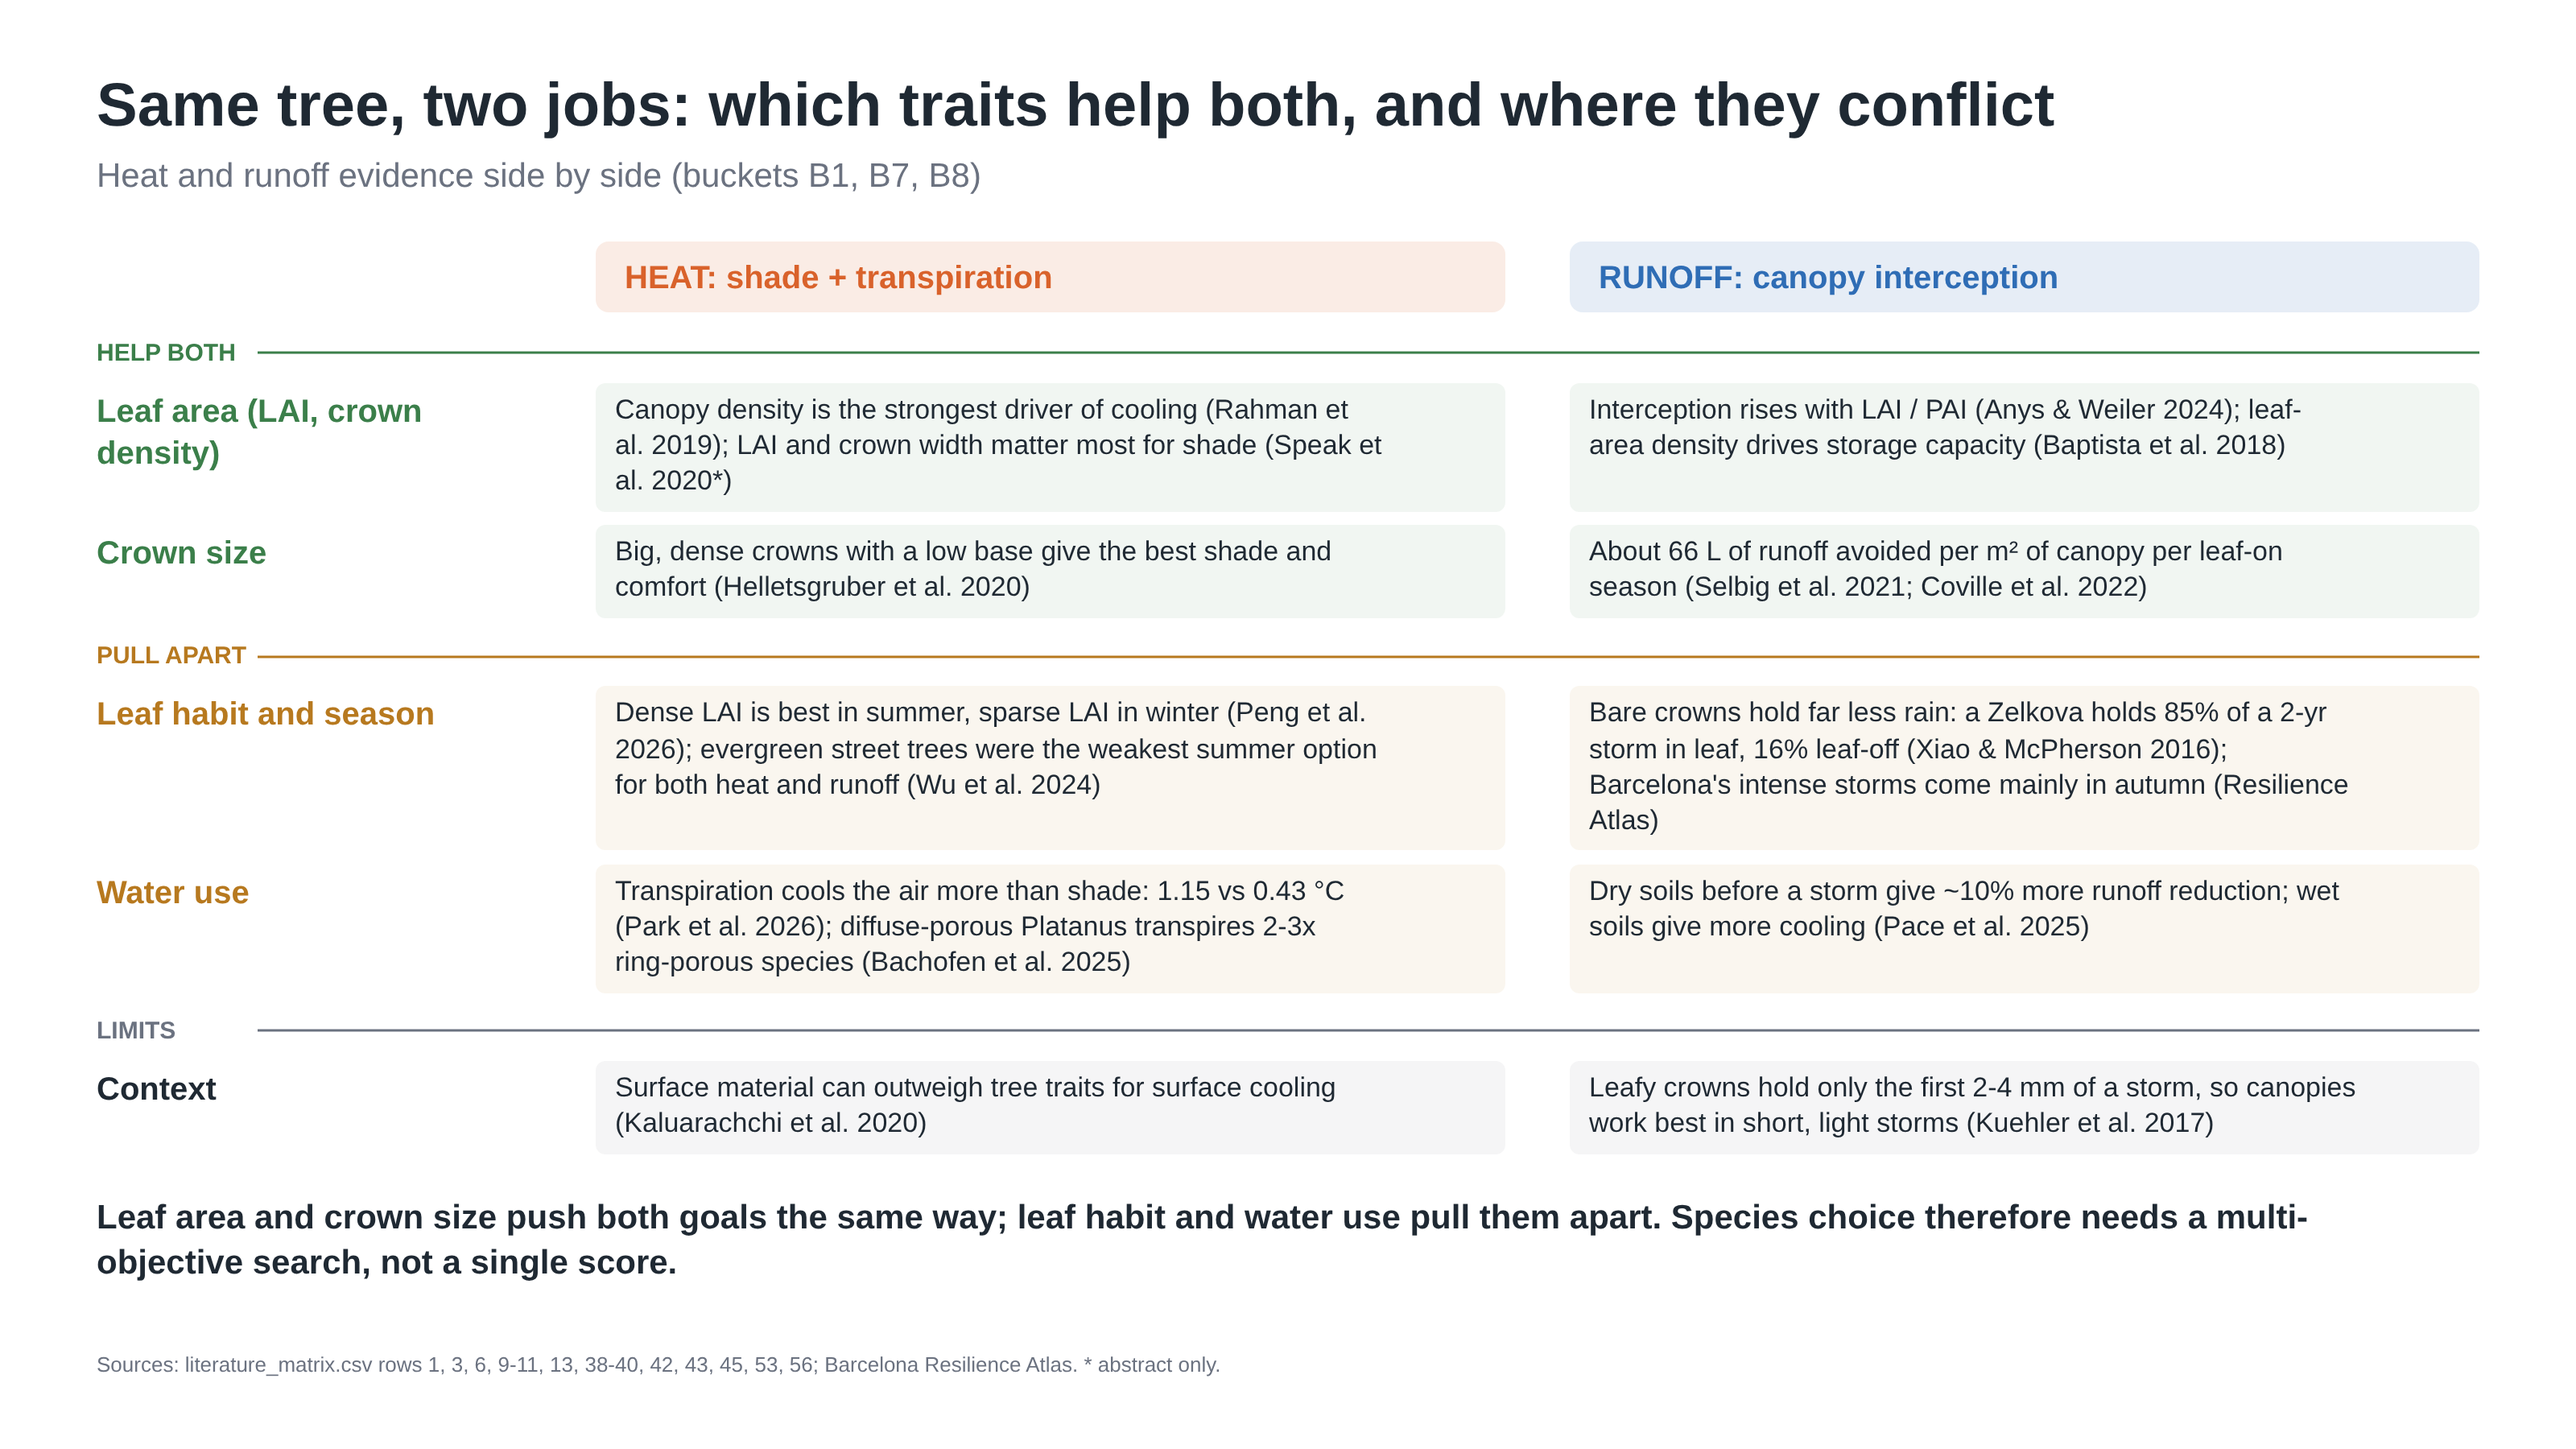
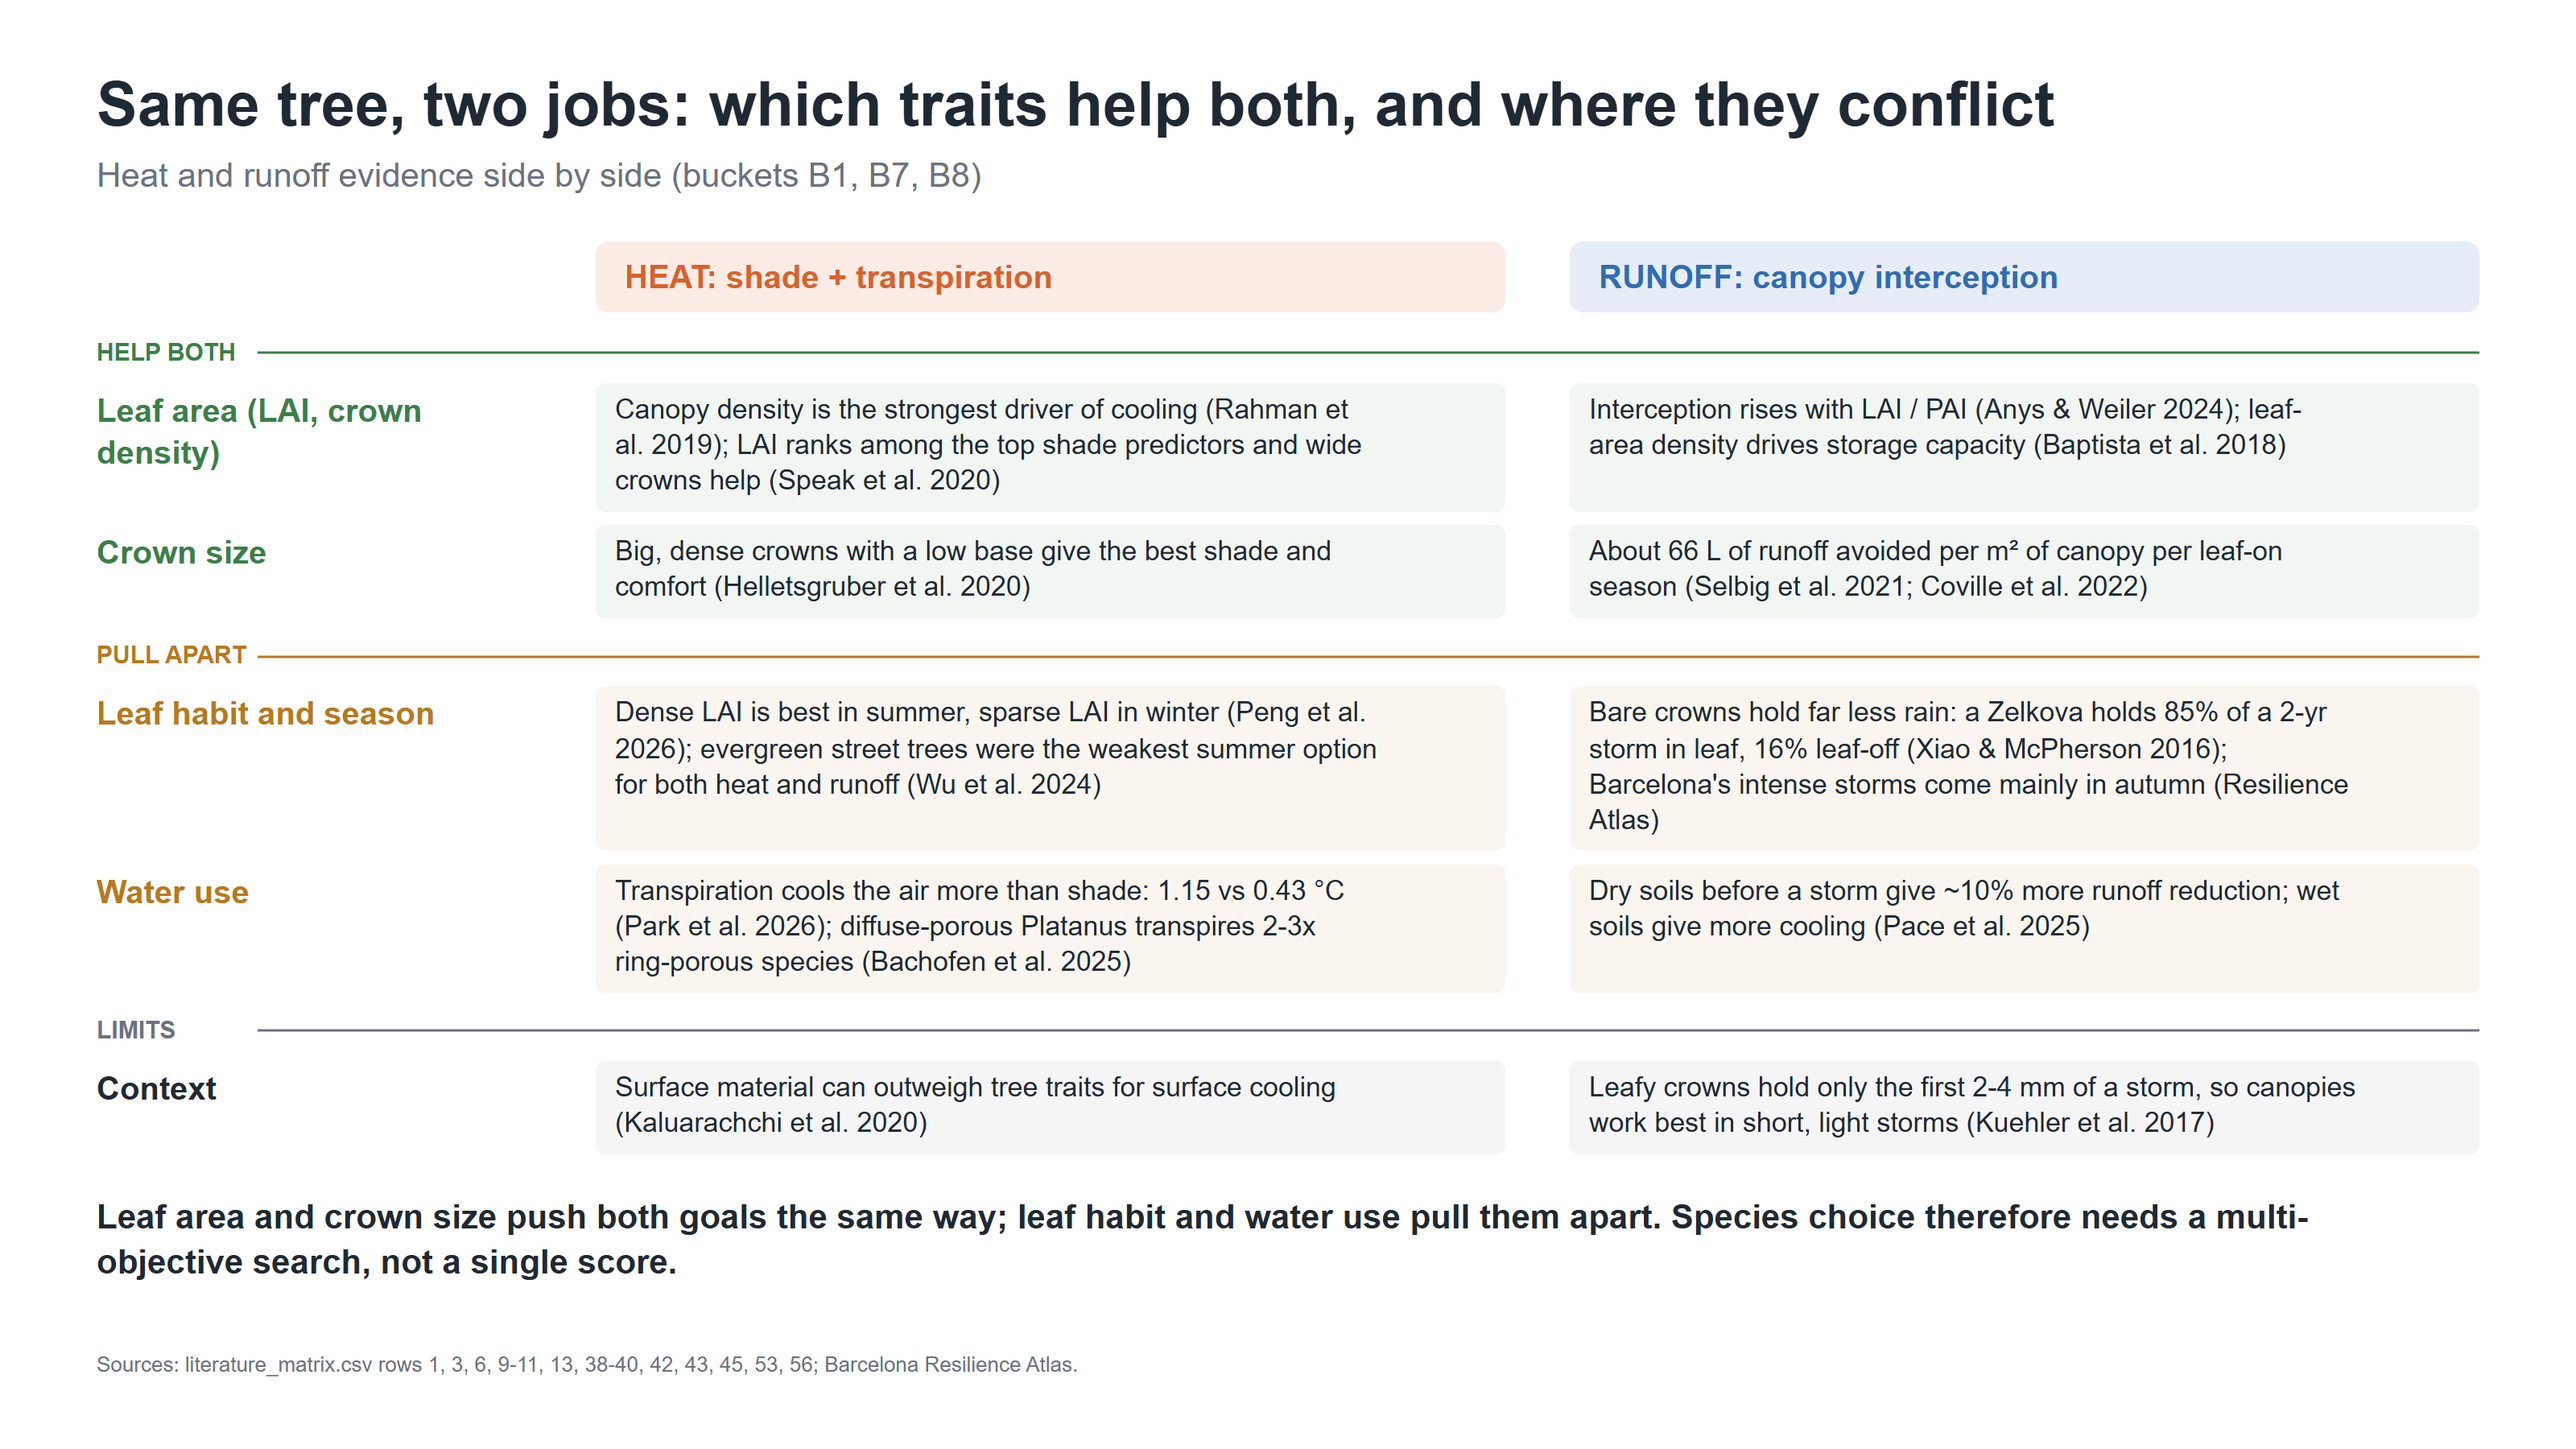
Read Speak 2020 in full: matrix row 39, slide 03 and notes (fact-checked)

diff --git a/scripts/make_infographics.py b/scripts/make_infographics.py
@@ -180,7 +180,7 @@ def fig_traits():
     b += rect(xr, 150, cw, 44, RAIN, op=0.12) + t(xr + 18, 179, "RUNOFF: canopy interception", 20, RAIN, "bold")
     bands = [("HELP BOTH", TREE, [
         ("Leaf area (LAI, crown density)",
-         "Canopy density is the strongest driver of cooling (Rahman et al. 2019); LAI and crown width matter most for shade (Speak et al. 2020*)",
+         "Canopy density is the strongest driver of cooling (Rahman et al. 2019); LAI ranks among the top shade predictors and wide crowns help (Speak et al. 2020)",
          "Interception rises with LAI / PAI (Anys & Weiler 2024); leaf-area density drives storage capacity (Baptista et al. 2018)"),
         ("Crown size",
          "Big, dense crowns with a low base give the best shade and comfort (Helletsgruber et al. 2020)",
@@ -212,7 +212,7 @@ def fig_traits():
                              "Species choice therefore needs a multi-objective search, not a single score.", 1480, 21, weight="bold")
     save("03_heat_runoff_traits", "Same tree, two jobs: which traits help both, and where they conflict",
          "Heat and runoff evidence side by side (buckets B1, B7, B8)", b + tk,
-         "literature_matrix.csv rows 1, 3, 6, 9-11, 13, 38-40, 42, 43, 45, 53, 56; Barcelona Resilience Atlas. * abstract only.")
+         "literature_matrix.csv rows 1, 3, 6, 9-11, 13, 38-40, 42, 43, 45, 53, 56; Barcelona Resilience Atlas.")
 
 
 # ---- 4. Gap: state of the art vs this thesis

diff --git a/notes/topic_decision.md b/notes/topic_decision.md
@@ -77,7 +77,7 @@ In a pluvial-flood hotspot catchment of Florence, how much event runoff volume f
 | Question | Evidence | Verdict |
 |---|---|---|
 | Do cities suffer both, in the same places? | Florence: pluvial hotspots in the flat, sealed centre (Pacetti 2022 #18); the hottest stations are also in the centre, with less green (Petralli, #49, search summary); in the centre, street air is ~1.5 C warmer than in gardens on average and up to ~2 C on calm evenings in May (Petralli et al. 2006 #76). Barcelona: high UHI mortality (Iungman 2023 #35) and recurrent intense-rain flooding in dense districts (Barcelona Resilience Atlas). Mediterranean review confirms the dual exposure (Stavropoulos 2026 #54) | **Yes** (see `notes/city_screening.md`) |
-| Do the same tree traits drive both? | Interception rises with LAI / leaf area density (Anys & Weiler 2024 #1; Yang 2019 #5). Shade cooling rises with canopy density, LAI and crown width (Rahman 2019 #38: about 4 °C of surface cooling per unit LAI; shade cooling is largest over asphalt and among the largest in Mediterranean (and tropical/steppe) climates, with few such studies, transpiration is smallest in Mediterranean climates and about 10× lower for trees in paved pits than over grass; Speak 2020 #39 (abs); Helletsgruber 2020 #40). The flip side: heat that thins crowns cuts both at once (Platanus lost roughly 30–50% of its plant area index after a > 41 °C heatwave, Sanusi & Livesley 2020 #66) | **Partly shared**: LAI and crown size help both |
+| Do the same tree traits drive both? | Interception rises with LAI / leaf area density (Anys & Weiler 2024 #1; Yang 2019 #5). Shade cooling rises with canopy density, LAI and crown width (Rahman 2019 #38: about 4 °C of surface cooling per unit LAI; shade cooling is largest over asphalt and among the largest in Mediterranean (and tropical/steppe) climates, with few such studies, transpiration is smallest in Mediterranean climates and about 10× lower for trees in paved pits than over grass; Speak 2020 #39: under solitary trees in Bolzano, ceptometer LAI ranks among the top predictors of surface cooling and wide crowns help, while Kaluarachchi 2020 #45 found no LAI effect; Helletsgruber 2020 #40). The flip side: heat that thins crowns cuts both at once (Platanus lost roughly 30–50% of its plant area index after a > 41 °C heatwave, Sanusi & Livesley 2020 #66) | **Partly shared**: LAI and crown size help both |
 | Where do they conflict? | (a) Leaf habit: evergreen crowns intercept in autumn–winter storms but block winter sun; seasonal LAI trade-off for comfort (Peng 2026 #53). (b) Water: transpiration is the larger air-cooling term (Park 2026 #42) and needs soil water (Pace 2025 #13); diffuse-porous species such as Platanus transpire 2–3× ring-porous ones (Bachofen 2025 #43). (c) Surface material can matter more than species for surface temperature: across 471 Sydney trees, LAI and crown area did not change the sun–shade surface difference, whose mean ranged from −17.5 °C (concrete pavers) to −24.8 °C (bark mulch) (Kaluarachchi 2020 #45) | **Real trade-offs**, so a multi-objective method is needed rather than one score |
 | Is it already done? | Mannucci 2025 #51: Grasshopper + Ladybug + Kangaroo assess UTCI **and** runoff, but by scenario testing, with no species traits and no optimisation. Shaamala 2025 #52 and Peng 2026 #53 optimise species/placement for **heat only**; so do Hao 2023 #62 (genetic algorithm, identical trees), Elkhateeb 2025 #63 (Galapagos, shade only, hypothetical sites) and Oneto 2026 #64 (machine learning on Ladybug shading runs, species matched afterwards by size). Cortinovis 2022 #69 assesses heat and runoff for Barcelona, but city-wide, with trees as land cover. Closest: Tan & Liu 2026 #80 optimise species (crowns from US allometry) and positions of a fixed 30 trees for UTCI, CO2 uptake and diversity with a surrogate and NSGA-II in Grasshopper, but with no runoff. SylvCiT has neither (#28) | **Gap**: no method selects species *and* positions using measured traits for both objectives |
 | Is there trait data? | Florence top-30 species (80% of 82,226 trees): a species-level runoff or heat value exists for 19% of trees, both for 7%. Barcelona top-30 (91% of 140,404 street trees): 40% and 29% (Platanus alone 28.6%). **Celtis australis is #2 in both cities with no value at all**; Mediterranean evergreens (Cupressus, Quercus ilex for heat, Olea, Pinus pinea) are weakly covered (`databases/*/species_coverage.csv`) | **Usable with explicit gap-filling** (genus/leaf-habit classes + sensitivity analysis). The gap itself is a finding |

diff --git a/notes/lit/to_get_manually.md b/notes/lit/to_get_manually.md
@@ -5,13 +5,13 @@ Paywalled, or no open-access PDF found by the search. Get them through Zotero / 
 **Status 9 Oct 2026:** 45 of 96 obtained and read in full, plus Santos Nouri 2018 (added by hand); 51 of the list still to get. Years in the entries are the search's (often online) years; the matrix uses the issue year (e.g. Zölch 2019, Cortinovis 2022, Marrazzo 2025).
 
 ## 1. Get these first (6)
-Dowtin, Hassan, de Mello, Rahman 2019, Speak and Kaluarachchi carry claims that the slides, figures or notes took from abstracts only. **12 Oct: all but Speak read in full.**
+Dowtin, Hassan, de Mello, Rahman 2019, Speak and Kaluarachchi carry claims that the slides, figures or notes took from abstracts only. **12 Oct: all read in full (Speak added and read the same day).**
 
 - [x] [T1] Asia L. Dowtin (2023). Towards optimized runoff reduction by urban tree cover: A review of key physical tree traits, site conditions, and management strategies. https://doi.org/10.1016/j.landurbplan.2023.104849 **Why:** review of the tree traits that reduce runoff. (matrix #4, full text (12 Oct))
 - [x] [T1] S.M. Tanvir Hassan (2017). Remote sensing upscaling of interception loss from isolated oaks: Sardon catchment case study, Spain. https://doi.org/10.1016/j.jhydrol.2017.08.016 **Why:** Quercus ilex vs Q. pyrenaica bars in figure 2. (matrix #8, full text (12 Oct))
 - [x] [T1] Carlos Rogério de Mello (2024). Deciphering global patterns of forest canopy rainfall interception (FCRI): A synthesis of geographical, forest species, and methodological influences. https://doi.org/10.1016/j.jenvman.2024.120879 **Why:** global median interception line in figure 2. (matrix #34, full text (12 Oct))
 - [x] [T1] Mohammad A. Rahman (2019). Traits of trees for cooling urban heat islands: A meta-analysis. https://doi.org/10.1016/j.buildenv.2019.106606 **Why:** tree-trait cooling meta-analysis, figure 3. (matrix #38, full text (12 Oct))
-- [ ] [T1] Andrew Francis Speak (2020). The influence of tree traits on urban ground surface shade cooling. https://doi.org/10.1016/j.landurbplan.2020.103748 **Why:** tree traits for shade cooling, figure 3 (abstract only). (matrix #39, abstract only)
+- [x] [T1] Andrew Francis Speak (2020). The influence of tree traits on urban ground surface shade cooling. https://doi.org/10.1016/j.landurbplan.2020.103748 **Why:** tree traits for shade cooling, figure 3 (abstract only). (matrix #39, full text (12 Oct))
 - [x] [T1] Kaluarachichi T.U.N. (2020). Temperature Reduction in Urban Surface Materials through Tree Shading Depends on Surface Type Not Tree Species. https://doi.org/10.3390/f11111141 **Why:** surface type vs species, figure 3; MDPI, should be open access. (matrix #45, full text (12 Oct))
 
 ## 2. Still to get, rest of the list (45)

diff --git a/notes/handoff_papers.md b/notes/handoff_papers.md
@@ -13,10 +13,9 @@ The user added new PDFs to `papers/` on the Omen. Do, in this order:
 - The matrix has 93 rows. Rows 4, 8, 34, 38, 45 were read in full on 12 Oct from the uploaded PDFs; rows 88-93 are six uploads (Chen 2026, Hu 2026, Xue 2026, Tilly 2025, Faisal 2026, Bouaziz 2026). Their `file_in_papers` still says "uploaded 12 Oct, not in papers/".
 - The 18 earlier uploads were 15 distinct papers: Grey 2018, Thom 2020 and Dowtin 2023 were each uploaded twice.
 - Rahman et al. 2020 (online Dec 2019) is cited in the notes as "Rahman 2019"; keep the file name consistent with the year printed in the PDF.
-- Not read yet: Speak 2020 (`10.1016/j.landurbplan.2020.103748`).
 
 ## Status (12 Oct, local session)
 - **Done:** 11 PDFs renamed (rows 4, 8, 34, 38, 45 and 88-93); `file_in_papers` set for rows 38 (now `Rahman 2020 - ...`, the year printed in the PDF) and 88-93; the other five already carried the target names. Zotero: 15 DOIs from the batch sent to collection THESIS_MACAD, 6 added, 9 already in the library (run "Find Available PDFs").
 - **Duplicates deleted (user OK, 12 Oct):** 10 PDFs. Same bytes: the unnamed copies of Baptista 2018, Xiao 2016 and the soil-infiltration paper. Same DOI and identical extracted text: the `1-s2.0-...` copies of Grey 2018 (2), Thom 2020 (2), Dowtin 2023 (`(1)`), Tan 2026, and `atmosphere-09-00012-v2.pdf` (Santos Nouri 2018). The stale `notes/lit/digest` and `notes/lit/text` files of the three unnamed copies were removed (gitignored) and the two todo lists updated.
 - **Still open:** the two "Urban Forest and Ecosystem Services" files (Livesley 2016, DOI 10.2134/jeq2015.11.0567) have the same DOI but different extracted text; neither was deleted.
-- **Not read yet:** Speak 2020 (`10.1016/j.landurbplan.2020.103748`), no PDF in `papers/`.
+- **Speak 2020** (`10.1016/j.landurbplan.2020.103748`): PDF added and read in full on 12 Oct (matrix #39). Its supplementary tree-trait table (per-tree data, 85 species) is not in `papers/`.
